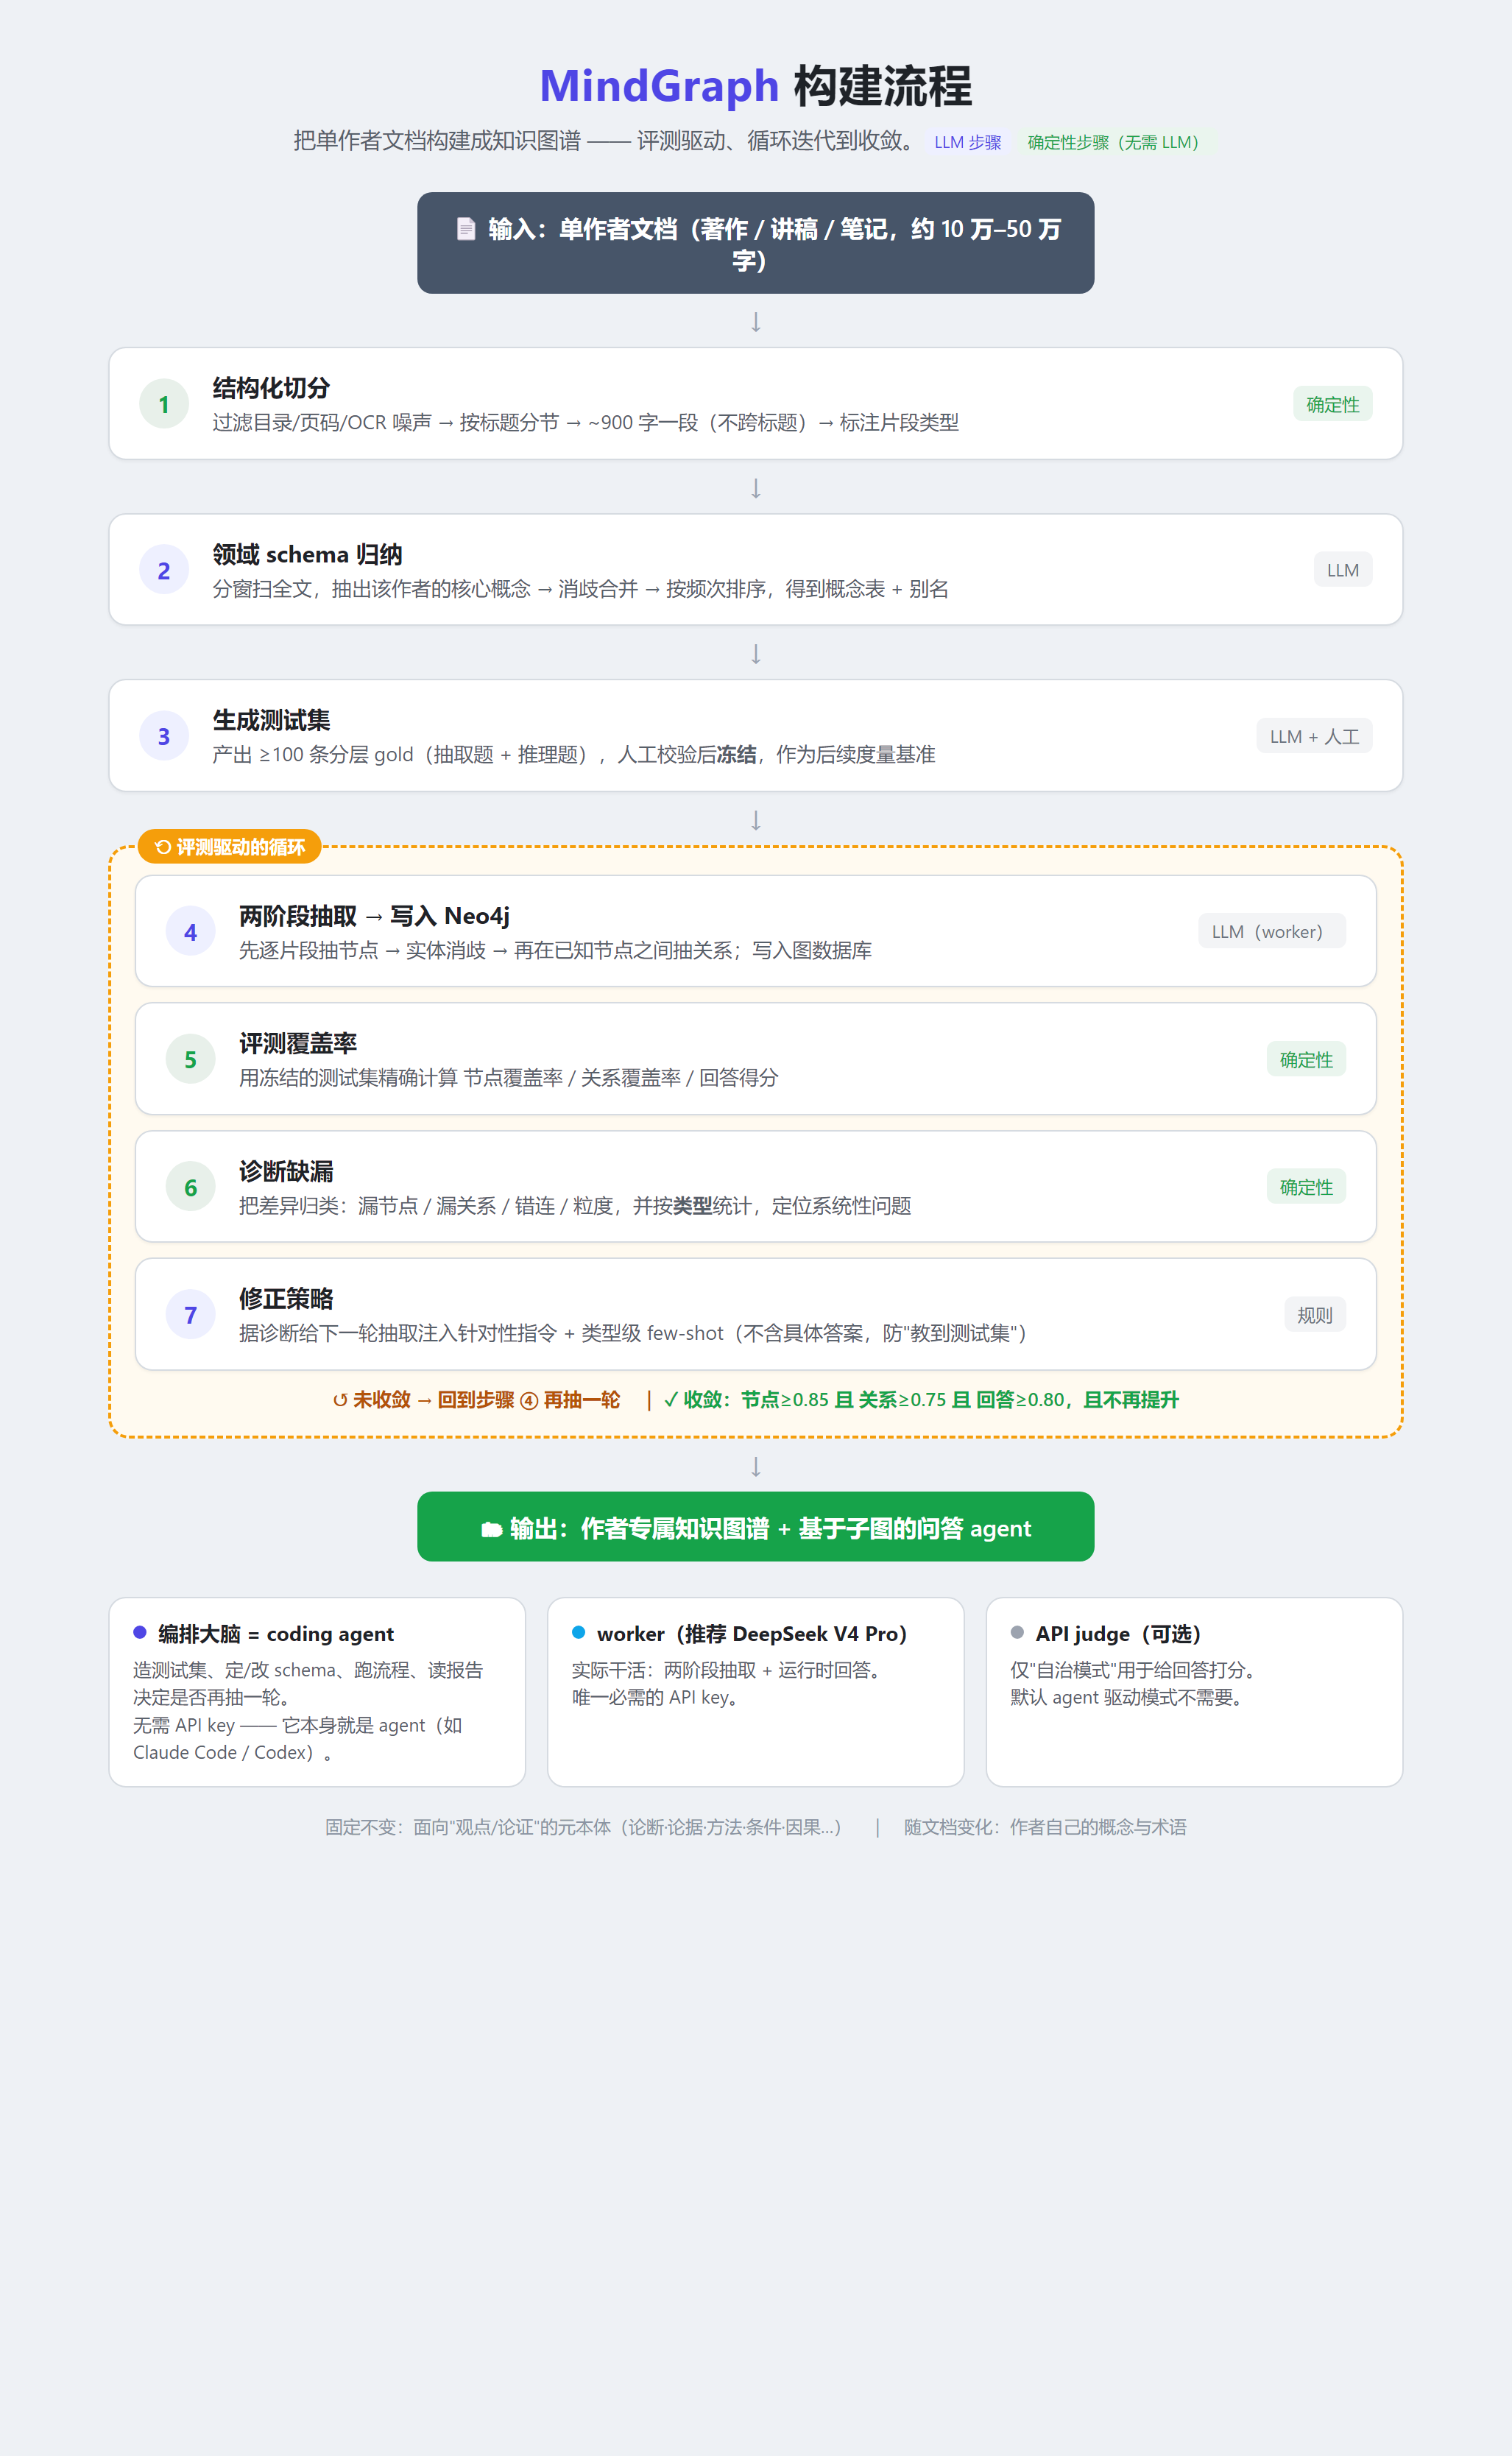
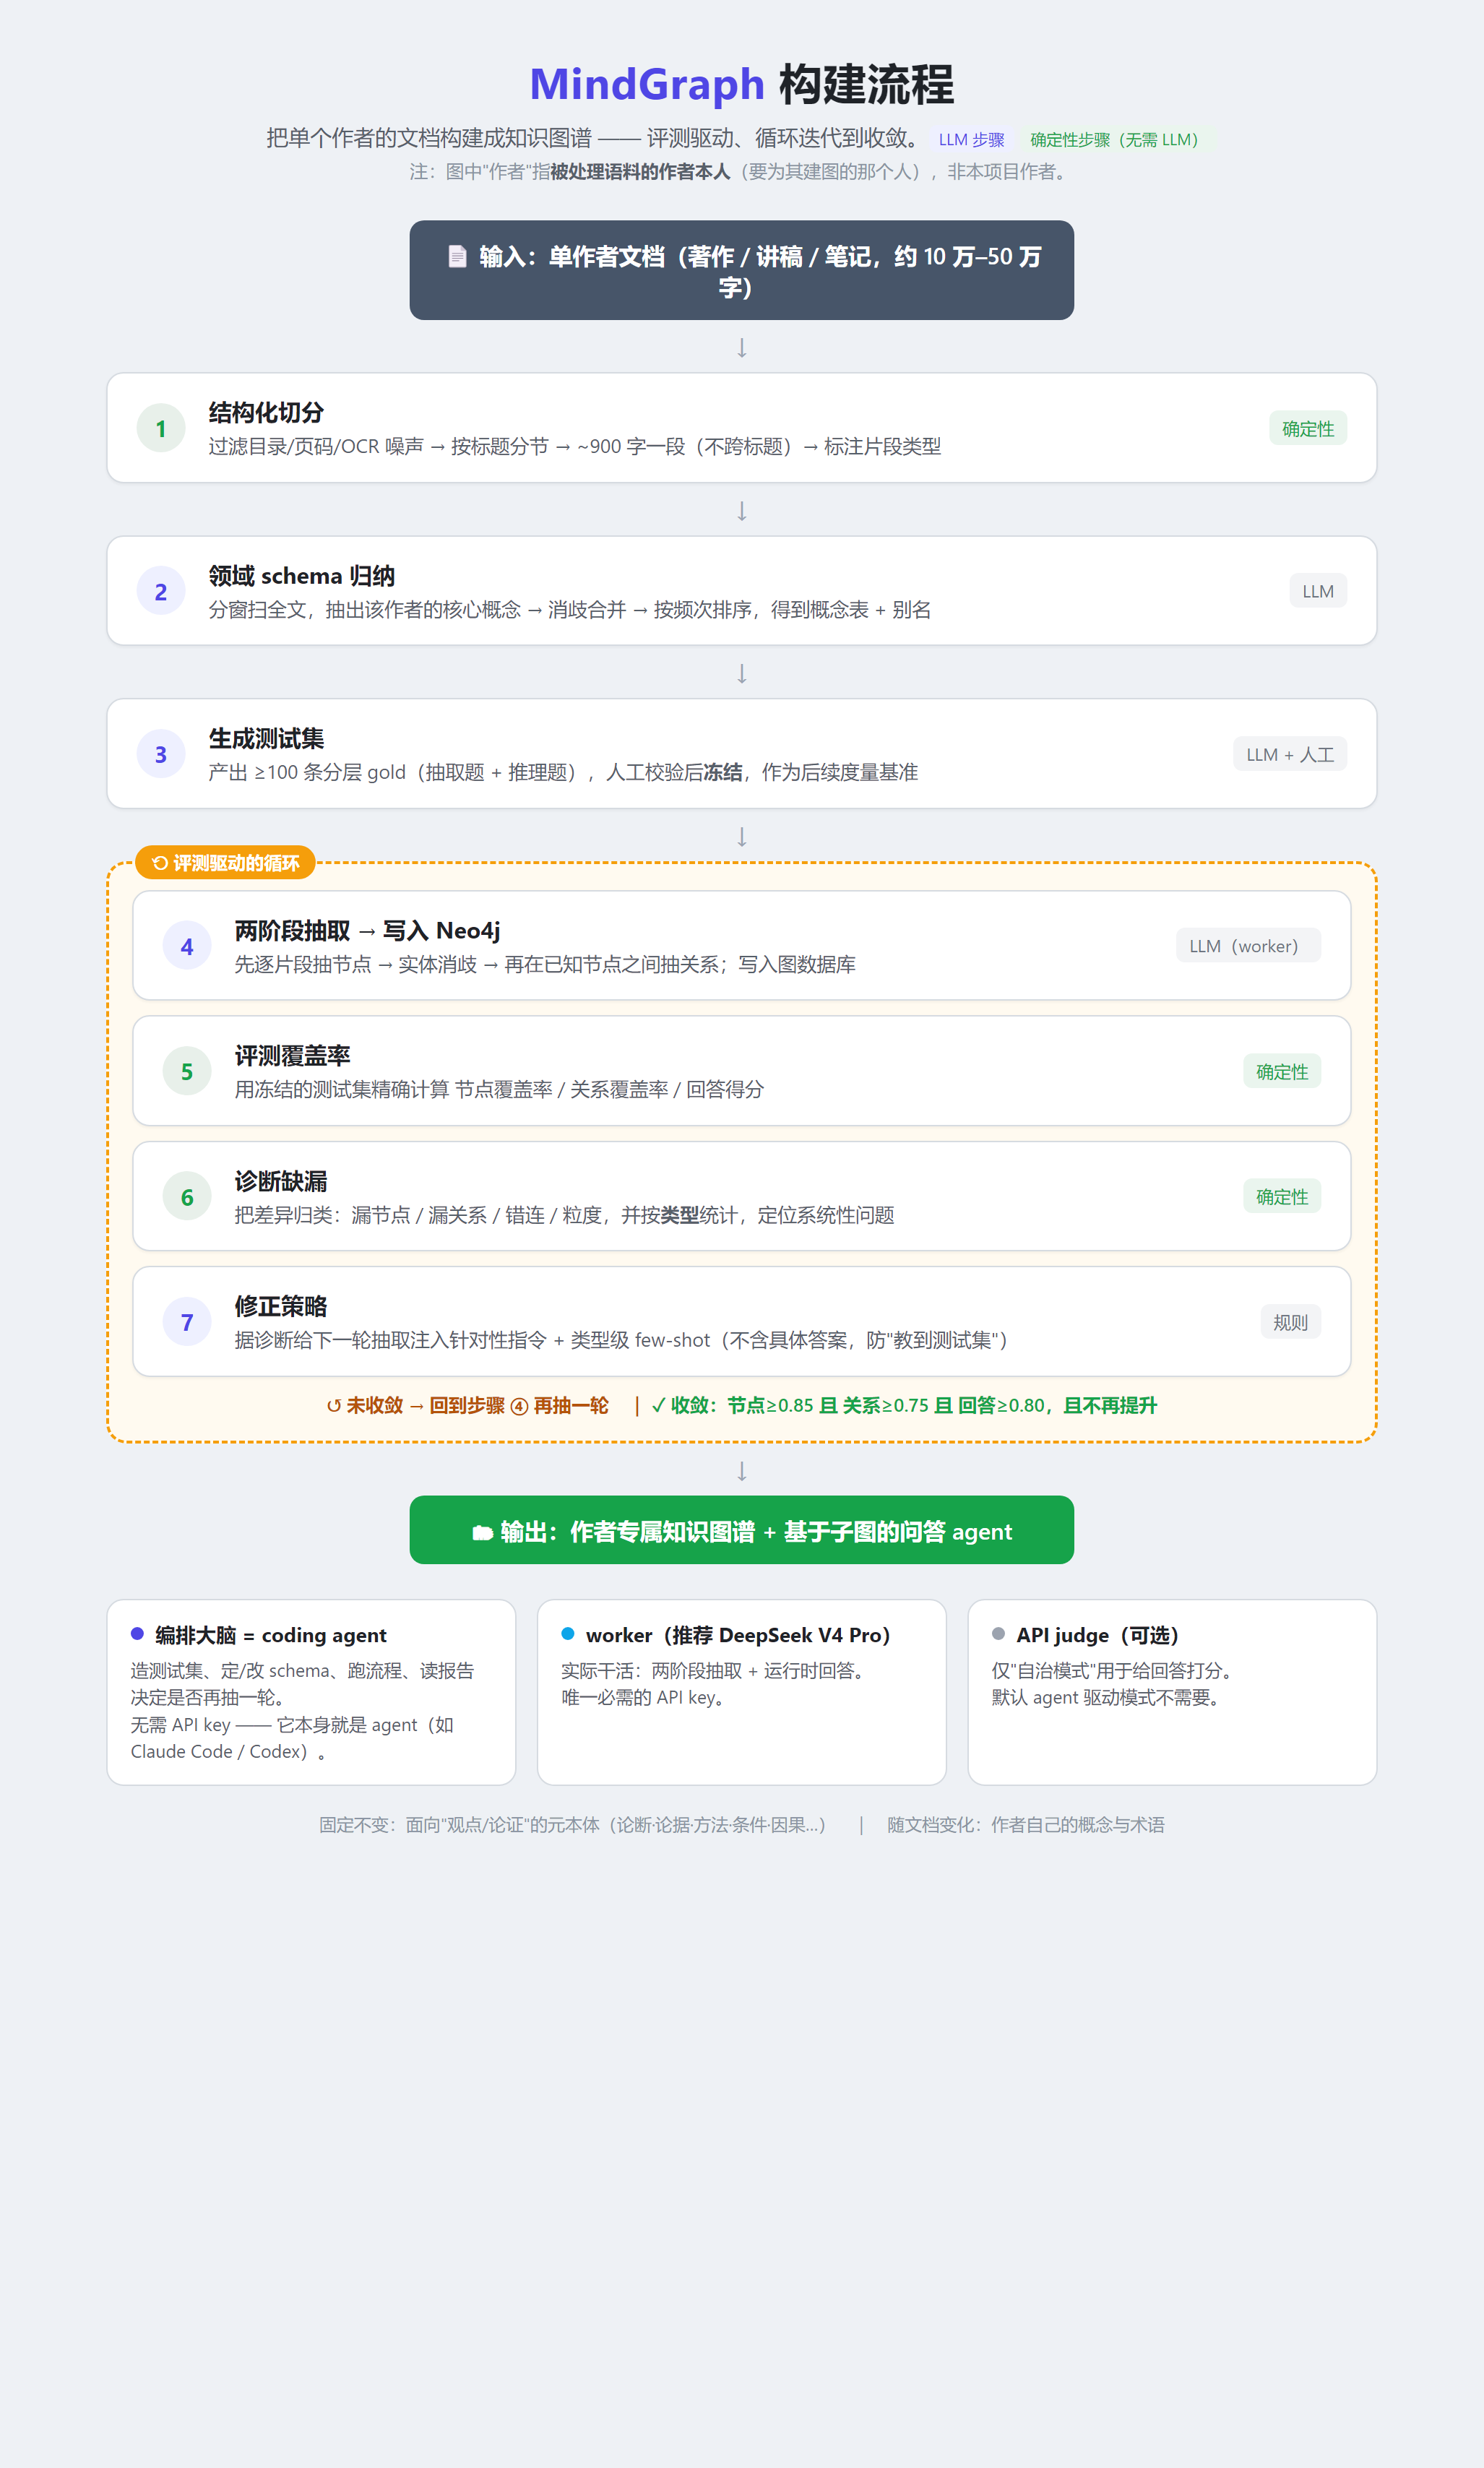
docs: disambiguate "作者/author" — clarify it means the source-corpus author, not the project author
Add a terminology note to both READMEs and the process diagram.

diff --git a/docs/process.html b/docs/process.html
@@ -85,7 +85,8 @@
 <div class="page">
   <header>
     <h1><span class="mg">MindGraph</span> 构建流程</h1>
-    <p>把单作者文档构建成知识图谱 —— 评测驱动、循环迭代到收敛。<span class="pill">LLM 步骤</span> <span class="pill det">确定性步骤（无需 LLM）</span></p>
+    <p>把单个作者的文档构建成知识图谱 —— 评测驱动、循环迭代到收敛。<span class="pill">LLM 步骤</span> <span class="pill det">确定性步骤（无需 LLM）</span></p>
+    <p style="font-size:12.5px;color:#8a94a2;margin-top:5px;">注：图中"作者"指<b style="color:#57606a;">被处理语料的作者本人</b>（要为其建图的那个人），非本项目作者。</p>
   </header>
 
   <div class="io in">📄 输入：单作者文档（著作 / 讲稿 / 笔记，约 10 万–50 万字）</div>

diff --git a/README.en.md b/README.en.md
@@ -8,8 +8,12 @@
 ![status](https://img.shields.io/badge/status-v0.1%20early-orange.svg)
 
 Build a knowledge graph from a single author's large body of text (essays, lecture
-transcripts, notes; roughly 100k–500k characters), so a QA assistant can answer along the
+transcripts, notes; roughly 100k–500k characters), so a QA assistant can answer along that
 author's own line of reasoning instead of paraphrasing retrieved fragments.
+
+> **Terminology**: throughout this document, "author" (unless noted otherwise) means the
+> **author of the source corpus** — the person you want to build a graph for — **not** the
+> author of this project/code (XiHa0).
 
 ## The problem this solves
 

diff --git a/README.md b/README.md
@@ -8,7 +8,10 @@
 ![status](https://img.shields.io/badge/status-v0.1%20early-orange.svg)
 
 把单一作者的大量文字（著作、讲稿、笔记，约 10 万–50 万字）构建成一个知识图谱，
-让问答助手能沿着作者本人的论证结构作答，而不是复述检索到的零散段落。
+让问答助手能沿着这位作者的论证结构作答，而不是复述检索到的零散段落。
+
+> **术语说明**：下文出现的"作者"，除非特别标注，一律指**被处理语料的作者本人**
+> （你想为其建知识图谱的那个人），**不是**本项目 / 代码的作者（XiHa0）。
 
 ## 背景：要解决的问题
 